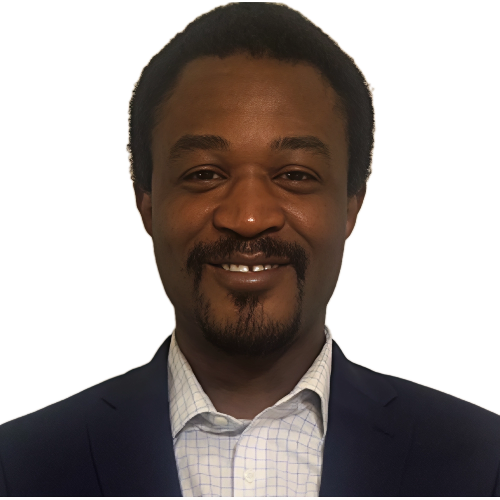
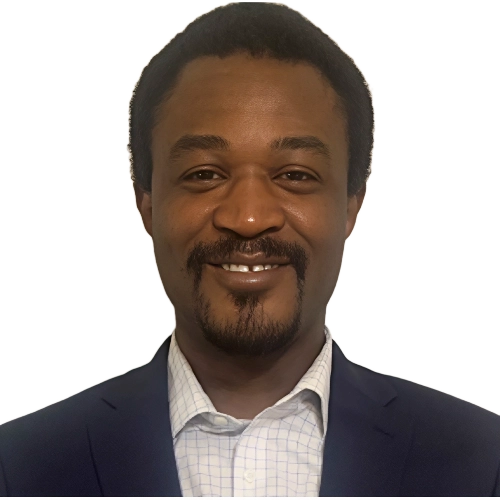
team: show Speakers before Organizers (per Emmanuel); replace Odeyomi with transparent photo

diff --git a/components/team.tsx b/components/team.tsx
@@ -299,7 +299,64 @@ export function Team() {
   return (
     <section id="team" className="scroll-mt-20 bg-[#060914]/25 py-20 md:py-28">
       <div className="mx-auto max-w-6xl px-4 md:px-6">
-        <Reveal className="mx-auto max-w-2xl text-center">
+        {/* Speakers — shown first, before organizers */}
+        <div id="speakers" className="scroll-mt-24" />
+        <Reveal>
+          <div className="mx-auto max-w-2xl text-center">
+            <p className="font-display text-sm font-semibold uppercase tracking-[0.2em] text-cyan">
+              Speakers
+            </p>
+            <h3 className="mt-3 font-display text-2xl font-bold text-white sm:text-4xl">
+              Speaker Lineup
+            </h3>
+          </div>
+          <div className="mx-auto mt-10 grid max-w-5xl grid-cols-1 gap-6 sm:grid-cols-2 lg:grid-cols-3">
+            {SPEAKERS.map((s, i) => (
+              <Reveal key={s.name} delay={(i % 3) * 0.08}>
+                <article
+                  onClick={() => setSelected(s)}
+                  onKeyDown={(e) => {
+                    if (e.key === 'Enter' || e.key === ' ') {
+                      e.preventDefault()
+                      setSelected(s)
+                    }
+                  }}
+                  role="button"
+                  tabIndex={0}
+                  aria-label={`View details for ${s.name}`}
+                  className="forge-card group flex h-full cursor-pointer flex-col overflow-hidden p-0 focus:outline-none focus-visible:ring-2 focus-visible:ring-[#FF006B]/50"
+                >
+                  {/* Square photo — distinguishes speakers from the round team avatars */}
+                  <div className="relative aspect-square w-full overflow-hidden">
+                    <img
+                      src={s.photo || avatarUrl(s.name)}
+                      alt={s.name}
+                      loading="lazy"
+                      className="h-full w-full object-cover transition-transform duration-500 group-hover:scale-105"
+                    />
+                    <div className="absolute inset-x-0 bottom-0 h-20 bg-gradient-to-t from-[#060914] to-transparent" />
+                  </div>
+                  <div className="flex flex-1 flex-col p-5">
+                    <h4 className="font-display text-lg font-bold text-white">{s.name}</h4>
+                    <p className="mt-0.5 text-sm font-semibold text-[#FF4D8F]">{s.title}</p>
+                    <p className="mt-1 text-xs leading-relaxed text-white/85">{s.affiliation}</p>
+                    {s.talkTitle && (
+                      <p className="mt-3 text-sm italic leading-relaxed text-white/90">
+                        “{s.talkTitle}”
+                      </p>
+                    )}
+                    <span className="mt-auto pt-3 text-xs font-semibold text-[#FF4D8F]">
+                      Read bio →
+                    </span>
+                  </div>
+                </article>
+              </Reveal>
+            ))}
+          </div>
+        </Reveal>
+
+        {/* The Team */}
+        <Reveal className="mx-auto mt-24 max-w-2xl text-center">
           <p className="font-display text-sm font-semibold uppercase tracking-[0.2em] text-cyan">
             The Team
           </p>
@@ -390,62 +447,6 @@ export function Team() {
                   <h4 className="mt-4 font-display text-lg font-bold text-white">{a.name}</h4>
                   <p className="mt-0.5 text-sm font-semibold text-[#FF4D8F]">{a.title}</p>
                   <p className="mt-1 text-xs leading-relaxed text-white/85">{a.affiliation}</p>
-                </article>
-              </Reveal>
-            ))}
-          </div>
-        </Reveal>
-
-        {/* Speakers */}
-        <div id="speakers" className="scroll-mt-24" />
-        <Reveal className="mt-16">
-          <div className="mx-auto max-w-2xl text-center">
-            <p className="font-display text-sm font-semibold uppercase tracking-[0.2em] text-cyan">
-              Speakers
-            </p>
-            <h3 className="mt-3 font-display text-xl font-bold text-white sm:text-2xl">
-              Speaker Lineup
-            </h3>
-          </div>
-          <div className="mx-auto mt-8 grid max-w-5xl grid-cols-1 gap-6 sm:grid-cols-2 lg:grid-cols-3">
-            {SPEAKERS.map((s, i) => (
-              <Reveal key={s.name} delay={(i % 3) * 0.08}>
-                <article
-                  onClick={() => setSelected(s)}
-                  onKeyDown={(e) => {
-                    if (e.key === 'Enter' || e.key === ' ') {
-                      e.preventDefault()
-                      setSelected(s)
-                    }
-                  }}
-                  role="button"
-                  tabIndex={0}
-                  aria-label={`View details for ${s.name}`}
-                  className="forge-card group flex h-full cursor-pointer flex-col overflow-hidden p-0 focus:outline-none focus-visible:ring-2 focus-visible:ring-[#FF006B]/50"
-                >
-                  {/* Square photo — distinguishes speakers from the round team avatars */}
-                  <div className="relative aspect-square w-full overflow-hidden">
-                    <img
-                      src={s.photo || avatarUrl(s.name)}
-                      alt={s.name}
-                      loading="lazy"
-                      className="h-full w-full object-cover transition-transform duration-500 group-hover:scale-105"
-                    />
-                    <div className="absolute inset-x-0 bottom-0 h-20 bg-gradient-to-t from-[#060914] to-transparent" />
-                  </div>
-                  <div className="flex flex-1 flex-col p-5">
-                    <h4 className="font-display text-lg font-bold text-white">{s.name}</h4>
-                    <p className="mt-0.5 text-sm font-semibold text-[#FF4D8F]">{s.title}</p>
-                    <p className="mt-1 text-xs leading-relaxed text-white/85">{s.affiliation}</p>
-                    {s.talkTitle && (
-                      <p className="mt-3 text-sm italic leading-relaxed text-white/90">
-                        “{s.talkTitle}”
-                      </p>
-                    )}
-                    <span className="mt-auto pt-3 text-xs font-semibold text-[#FF4D8F]">
-                      Read bio →
-                    </span>
-                  </div>
                 </article>
               </Reveal>
             ))}
